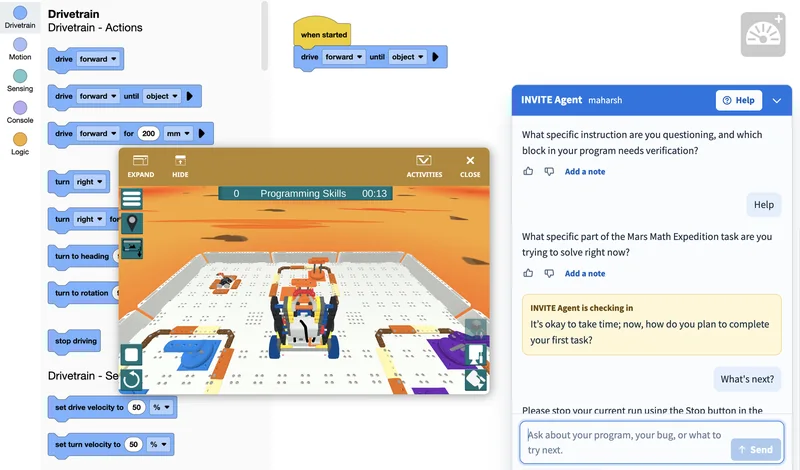
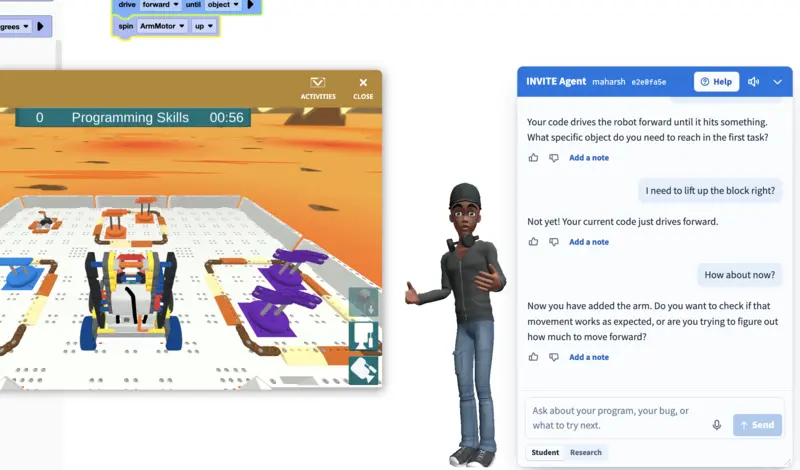
Split the agent card into Chat AI Agent and Pedagogical AI Agent
agent.inviteai.org now serves the embodied pedagogical agent, while the
chat agent runs at chat.inviteai.org. Give each its own card, photo and
source repo link, and spell out the Pedagogical Agent Toolkit name.

diff --git a/public/index.html b/public/index.html
@@ -3,7 +3,7 @@
 <head>
 <meta charset="utf-8">
 <meta name="viewport" content="width=device-width, initial-scale=1">
-<meta name="description" content="Research software built and run by the INVITE Institute: the Learner Modeling Dashboard, the Pedagogical AI Agent, and the PA Toolkit.">
+<meta name="description" content="Research software built and run by the INVITE Institute: the Learner Modeling Dashboard, the Chat AI Agent, the Pedagogical AI Agent, and the Pedagogical Agent Toolkit.">
 <meta name="theme-color" content="#1c3947">
 <title>Research Software &middot; INVITE Institute</title>
 <link rel="preload" href="/assets/fonts/montserrat-700.woff2" as="font" type="font/woff2" crossorigin>
@@ -58,16 +58,33 @@
       </div>
     </article>
 
+    <article class="tool" aria-labelledby="chat-title">
+      <figure class="tool-photo">
+        <img src="/assets/img/photos/chat-1200.webp?v=6" srcset="/assets/img/photos/chat-800.webp?v=6 800w, /assets/img/photos/chat-1200.webp?v=6 1200w, /assets/img/photos/chat-1600.webp?v=6 1600w" sizes="(max-width: 767px) calc(100vw - 42px), 585px" width="1600" height="941" alt="VEXcode VR with a robot on the playground and the INVITE Agent chat panel, where the agent asks the student questions and checks in on their plan" loading="lazy">
+      </figure>
+      <div class="tool-body">
+        <div class="tool-head">
+          <h2 class="tool-title" id="chat-title">Chat AI Agent</h2>
+          <span class="status status-live">Live</span>
+        </div>
+        <p class="tool-desc">Chats with students in VEXcode VR and proactively reaches out when they’re stuck.</p>
+        <div class="tool-foot">
+          <a class="btn" href="https://chat.inviteai.org" target="_blank" rel="noopener">Open Chat<svg class="btn-arrow" width="16" height="16" viewBox="0 0 24 24" fill="none" stroke="currentColor" stroke-width="2.4" stroke-linecap="round" stroke-linejoin="round" aria-hidden="true"><path d="M7 17 17 7M17 7H8M17 7v9"/></svg></a>
+          <span class="tool-host">chat.inviteai.org</span>
+        </div>
+      </div>
+    </article>
+
     <article class="tool" aria-labelledby="agent-title">
       <figure class="tool-photo">
-        <img src="/assets/img/photos/agent-1200.webp?v=5" srcset="/assets/img/photos/agent-800.webp?v=5 800w, /assets/img/photos/agent-1200.webp?v=5 1200w, /assets/img/photos/agent-1600.webp?v=5 1600w" sizes="(max-width: 767px) calc(100vw - 42px), 585px" width="1600" height="941" alt="VEXcode VR with a robot on the playground and the INVITE Agent chat panel, where the agent asks the student questions and checks in on their plan" loading="lazy">
+        <img src="/assets/img/photos/agent-1200.webp?v=9" srcset="/assets/img/photos/agent-800.webp?v=9 800w, /assets/img/photos/agent-1200.webp?v=9 1200w, /assets/img/photos/agent-1600.webp?v=9 1600w" sizes="(max-width: 767px) calc(100vw - 42px), 585px" width="1600" height="941" alt="VEXcode VR with a robot on the playground, a 3D animated tutor, and the INVITE Agent panel giving feedback on the student's code" loading="lazy">
       </figure>
       <div class="tool-body">
         <div class="tool-head">
           <h2 class="tool-title" id="agent-title">Pedagogical AI Agent</h2>
           <span class="status status-live">Live</span>
         </div>
-        <p class="tool-desc">Chats with students in VEXcode VR and proactively reaches out when they’re stuck.</p>
+        <p class="tool-desc">An embodied 3D tutor that watches students code in VEXcode VR and talks them through it out loud.</p>
         <div class="tool-foot">
           <a class="btn" href="https://agent.inviteai.org" target="_blank" rel="noopener">Open Agent<svg class="btn-arrow" width="16" height="16" viewBox="0 0 24 24" fill="none" stroke="currentColor" stroke-width="2.4" stroke-linecap="round" stroke-linejoin="round" aria-hidden="true"><path d="M7 17 17 7M17 7H8M17 7v9"/></svg></a>
           <span class="tool-host">agent.inviteai.org</span>
@@ -77,16 +94,16 @@
 
     <article class="tool" aria-labelledby="patk-title">
       <figure class="tool-photo">
-        <img src="/assets/img/photos/patk-1200.webp?v=3" srcset="/assets/img/photos/patk-800.webp?v=3 800w, /assets/img/photos/patk-1200.webp?v=3 1200w, /assets/img/photos/patk-1600.webp?v=3 1600w" sizes="(max-width: 767px) calc(100vw - 42px), 585px" width="1600" height="941" alt="The PA Toolkit agent creator: a customization menu, a 3D agent in a wheelchair, and a shoe picker" loading="lazy">
+        <img src="/assets/img/photos/patk-1200.webp?v=3" srcset="/assets/img/photos/patk-800.webp?v=3 800w, /assets/img/photos/patk-1200.webp?v=3 1200w, /assets/img/photos/patk-1600.webp?v=3 1600w" sizes="(max-width: 767px) calc(100vw - 42px), 585px" width="1600" height="941" alt="The Pedagogical Agent Toolkit agent creator: a customization menu, a 3D agent in a wheelchair, and a shoe picker" loading="lazy">
       </figure>
       <div class="tool-body">
         <div class="tool-head">
-          <h2 class="tool-title" id="patk-title">PA Toolkit</h2>
+          <h2 class="tool-title" id="patk-title">Pedagogical Agent Toolkit</h2>
           <span class="status status-live">Live</span>
         </div>
         <p class="tool-desc">Tools for pedagogical agent design and testing.</p>
         <div class="tool-foot">
-          <a class="btn" id="patk-link" href="https://patk.inviteai.org" target="_blank" rel="noopener">Open PA Toolkit<svg class="btn-arrow" width="16" height="16" viewBox="0 0 24 24" fill="none" stroke="currentColor" stroke-width="2.4" stroke-linecap="round" stroke-linejoin="round" aria-hidden="true"><path d="M7 17 17 7M17 7H8M17 7v9"/></svg></a>
+          <a class="btn" id="patk-link" href="https://patk.inviteai.org" target="_blank" rel="noopener">Open Toolkit<svg class="btn-arrow" width="16" height="16" viewBox="0 0 24 24" fill="none" stroke="currentColor" stroke-width="2.4" stroke-linecap="round" stroke-linejoin="round" aria-hidden="true"><path d="M7 17 17 7M17 7H8M17 7v9"/></svg></a>
           <span class="tool-host"><svg class="lock" width="13" height="13" viewBox="0 0 24 24" fill="none" stroke="currentColor" stroke-width="2.4" stroke-linecap="round" stroke-linejoin="round" aria-hidden="true"><rect x="4" y="11" width="16" height="10" rx="1"/><path d="M8 11V7a4 4 0 0 1 8 0v4"/></svg>Password required</span>
         </div>
       </div>
@@ -99,7 +116,8 @@
         <h2 class="panel-heading">Source Code</h2>
         <ul class="repo-list">
           <li><a class="repo" href="https://github.com/InviteInstitute/lm-dashboard" target="_blank" rel="noopener"><svg class="repo-mark" width="24" height="24" viewBox="0 0 24 24" fill="currentColor" aria-hidden="true"><path d="M12 .5C5.65.5.5 5.65.5 12c0 5.08 3.29 9.39 7.86 10.91.58.1.79-.25.79-.56v-1.97c-3.2.7-3.87-1.54-3.87-1.54-.52-1.33-1.28-1.69-1.28-1.69-1.04-.71.08-.7.08-.7 1.15.08 1.76 1.19 1.76 1.19 1.03 1.76 2.69 1.25 3.35.96.1-.75.4-1.25.73-1.54-2.55-.29-5.24-1.28-5.24-5.69 0-1.26.45-2.29 1.19-3.1-.12-.29-.52-1.46.11-3.05 0 0 .97-.31 3.17 1.18a11 11 0 0 1 5.77 0c2.2-1.49 3.17-1.18 3.17-1.18.63 1.59.23 2.76.11 3.05.74.81 1.19 1.84 1.19 3.1 0 4.42-2.69 5.39-5.26 5.68.41.36.78 1.06.78 2.14v3.17c0 .31.21.67.8.56A11.5 11.5 0 0 0 23.5 12C23.5 5.65 18.35.5 12 .5z"/></svg><span class="repo-text"><span class="repo-name">lm-dashboard</span><span class="repo-tool">Learner Modeling Dashboard</span></span><svg class="repo-arrow" width="16" height="16" viewBox="0 0 24 24" fill="none" stroke="currentColor" stroke-width="2.4" stroke-linecap="round" stroke-linejoin="round" aria-hidden="true"><path d="M7 17 17 7M17 7H8M17 7v9"/></svg></a></li>
-          <li><a class="repo" href="https://github.com/InviteInstitute/vex-agent-integration" target="_blank" rel="noopener"><svg class="repo-mark" width="24" height="24" viewBox="0 0 24 24" fill="currentColor" aria-hidden="true"><path d="M12 .5C5.65.5.5 5.65.5 12c0 5.08 3.29 9.39 7.86 10.91.58.1.79-.25.79-.56v-1.97c-3.2.7-3.87-1.54-3.87-1.54-.52-1.33-1.28-1.69-1.28-1.69-1.04-.71.08-.7.08-.7 1.15.08 1.76 1.19 1.76 1.19 1.03 1.76 2.69 1.25 3.35.96.1-.75.4-1.25.73-1.54-2.55-.29-5.24-1.28-5.24-5.69 0-1.26.45-2.29 1.19-3.1-.12-.29-.52-1.46.11-3.05 0 0 .97-.31 3.17 1.18a11 11 0 0 1 5.77 0c2.2-1.49 3.17-1.18 3.17-1.18.63 1.59.23 2.76.11 3.05.74.81 1.19 1.84 1.19 3.1 0 4.42-2.69 5.39-5.26 5.68.41.36.78 1.06.78 2.14v3.17c0 .31.21.67.8.56A11.5 11.5 0 0 0 23.5 12C23.5 5.65 18.35.5 12 .5z"/></svg><span class="repo-text"><span class="repo-name">vex-agent-integration</span><span class="repo-tool">Pedagogical AI Agent</span></span><svg class="repo-arrow" width="16" height="16" viewBox="0 0 24 24" fill="none" stroke="currentColor" stroke-width="2.4" stroke-linecap="round" stroke-linejoin="round" aria-hidden="true"><path d="M7 17 17 7M17 7H8M17 7v9"/></svg></a></li>
+          <li><a class="repo" href="https://github.com/InviteInstitute/vex-chat-agent" target="_blank" rel="noopener"><svg class="repo-mark" width="24" height="24" viewBox="0 0 24 24" fill="currentColor" aria-hidden="true"><path d="M12 .5C5.65.5.5 5.65.5 12c0 5.08 3.29 9.39 7.86 10.91.58.1.79-.25.79-.56v-1.97c-3.2.7-3.87-1.54-3.87-1.54-.52-1.33-1.28-1.69-1.28-1.69-1.04-.71.08-.7.08-.7 1.15.08 1.76 1.19 1.76 1.19 1.03 1.76 2.69 1.25 3.35.96.1-.75.4-1.25.73-1.54-2.55-.29-5.24-1.28-5.24-5.69 0-1.26.45-2.29 1.19-3.1-.12-.29-.52-1.46.11-3.05 0 0 .97-.31 3.17 1.18a11 11 0 0 1 5.77 0c2.2-1.49 3.17-1.18 3.17-1.18.63 1.59.23 2.76.11 3.05.74.81 1.19 1.84 1.19 3.1 0 4.42-2.69 5.39-5.26 5.68.41.36.78 1.06.78 2.14v3.17c0 .31.21.67.8.56A11.5 11.5 0 0 0 23.5 12C23.5 5.65 18.35.5 12 .5z"/></svg><span class="repo-text"><span class="repo-name">vex-chat-agent</span><span class="repo-tool">Chat AI Agent</span></span><svg class="repo-arrow" width="16" height="16" viewBox="0 0 24 24" fill="none" stroke="currentColor" stroke-width="2.4" stroke-linecap="round" stroke-linejoin="round" aria-hidden="true"><path d="M7 17 17 7M17 7H8M17 7v9"/></svg></a></li>
+          <li><a class="repo" href="https://github.com/InviteInstitute/vex-pedagogical-agent" target="_blank" rel="noopener"><svg class="repo-mark" width="24" height="24" viewBox="0 0 24 24" fill="currentColor" aria-hidden="true"><path d="M12 .5C5.65.5.5 5.65.5 12c0 5.08 3.29 9.39 7.86 10.91.58.1.79-.25.79-.56v-1.97c-3.2.7-3.87-1.54-3.87-1.54-.52-1.33-1.28-1.69-1.28-1.69-1.04-.71.08-.7.08-.7 1.15.08 1.76 1.19 1.76 1.19 1.03 1.76 2.69 1.25 3.35.96.1-.75.4-1.25.73-1.54-2.55-.29-5.24-1.28-5.24-5.69 0-1.26.45-2.29 1.19-3.1-.12-.29-.52-1.46.11-3.05 0 0 .97-.31 3.17 1.18a11 11 0 0 1 5.77 0c2.2-1.49 3.17-1.18 3.17-1.18.63 1.59.23 2.76.11 3.05.74.81 1.19 1.84 1.19 3.1 0 4.42-2.69 5.39-5.26 5.68.41.36.78 1.06.78 2.14v3.17c0 .31.21.67.8.56A11.5 11.5 0 0 0 23.5 12C23.5 5.65 18.35.5 12 .5z"/></svg><span class="repo-text"><span class="repo-name">vex-pedagogical-agent</span><span class="repo-tool">Pedagogical AI Agent</span></span><svg class="repo-arrow" width="16" height="16" viewBox="0 0 24 24" fill="none" stroke="currentColor" stroke-width="2.4" stroke-linecap="round" stroke-linejoin="round" aria-hidden="true"><path d="M7 17 17 7M17 7H8M17 7v9"/></svg></a></li>
         </ul>
       </div>
       <nav class="more-col" aria-label="The Institute">
@@ -118,7 +136,7 @@
 
 <dialog class="gate-dialog" id="patk-gate" aria-labelledby="patk-gate-title">
   <form method="dialog" id="patk-gate-form">
-    <h2 class="gate-title" id="patk-gate-title">PA Toolkit</h2>
+    <h2 class="gate-title" id="patk-gate-title">Pedagogical Agent Toolkit</h2>
     <p class="gate-desc">Enter the access password to continue.</p>
     <label class="gate-label" for="patk-password">Password</label>
     <input class="gate-input" id="patk-password" type="password" name="password" autocomplete="current-password" required>

diff --git a/README.md b/README.md
@@ -3,15 +3,16 @@
 The public landing page at <https://inviteai.org> for the research software built and run
 by the **INVITE Institute** (the NSF-IES National AI Institute for Innovative Intelligent
 Technologies for Education). It is a single, hand-written static page that indexes each
-tool - the Learner Modeling Dashboard, the Pedagogical AI Agent, and the PA Toolkit - with
+tool - the Learner Modeling Dashboard, the Chat AI Agent, the Pedagogical AI Agent, and the Pedagogical Agent Toolkit - with
 a short description and a live or coming-soon badge, and links out to where each one runs.
 
 ```mermaid
 flowchart LR
     visitor["Visitor"] --> site[("inviteai.org<br/>nginx static site")]
     site --> dash["dashboard.inviteai.org<br/>Learner Modeling Dashboard"]
+    site --> chat["chat.inviteai.org<br/>Chat AI Agent"]
     site --> agent["agent.inviteai.org<br/>Pedagogical AI Agent"]
-    site --> patk["patk.inviteai.org<br/>PA Toolkit"]
+    site --> patk["patk.inviteai.org<br/>Pedagogical Agent Toolkit"]
 ```
 
 ## Quick Start
@@ -33,7 +34,6 @@ Edit `public/index.html` or `public/styles.css`, refresh, and you see the change
   theme's fonts, colors, lined title bar, and footer), so this page reads as part of it.
 - A **tool list** where each tool carries a name, a one-line description, a **Live**
   badge, and a button that opens it on its own subdomain.
-- The **Pedagogical AI Agent** with its Chat tool grouped underneath it.
 - Each tool paired with a screenshot of it running, alternating sides.
 - A links band pointing to the tools' source code and the Institute's own pages.
 - The Institute footer: NSF and IES funding disclaimer (Grant #2229612), partner logos,
@@ -83,4 +83,4 @@ markup lives in `index.html` and the styles in `styles.css`, and keeping them as
 files makes it trivial to read, edit, review in a diff, and deploy. The tools it links to each live in their own
 repository, [lm-dashboard](https://github.com/InviteInstitute/lm-dashboard),
 [vex-agent-integration](https://github.com/InviteInstitute/vex-agent-integration), and the
-PA Toolkit. This repo is only the front door.
+Pedagogical Agent Toolkit. This repo is only the front door.

diff --git a/PRODUCT.md b/PRODUCT.md
@@ -10,7 +10,7 @@ web
 
 Two audiences, weighted equally:
 
-- **Insiders launching a tool.** INVITE researchers and partner-school teachers who arrive to open the Learner Modeling Dashboard, the Pedagogical AI Agent, or the PA Toolkit and leave. Getting to the right link fast matters most.
+- **Insiders launching a tool.** INVITE researchers and partner-school teachers who arrive to open the Learner Modeling Dashboard, the Chat AI Agent, the Pedagogical AI Agent, or the Pedagogical Agent Toolkit and leave. Getting to the right link fast matters most.
 - **Outside evaluators.** NSF/IES reviewers, peer AI institutes, and the public checking what INVITE has built. A clear, credible account of each tool and its status matters most.
 
 ## Product Purpose
@@ -23,9 +23,9 @@ It is the software arm of an existing institute, not a separate product. It shou
 
 ## Operating Context
 
-- Tools run on their own subdomains: dashboard.inviteai.org, agent.inviteai.org, patk.inviteai.org.
+- Tools run on their own subdomains: dashboard.inviteai.org, chat.inviteai.org, agent.inviteai.org, patk.inviteai.org.
 - The dashboard and agent chat are used alongside VEXcode VR in classrooms.
-- The PA Toolkit link sits behind a client-side password prompt (session-remembered).
+- The Pedagogical Agent Toolkit link sits behind a client-side password prompt (session-remembered).
 
 ## Capabilities and Constraints
 
